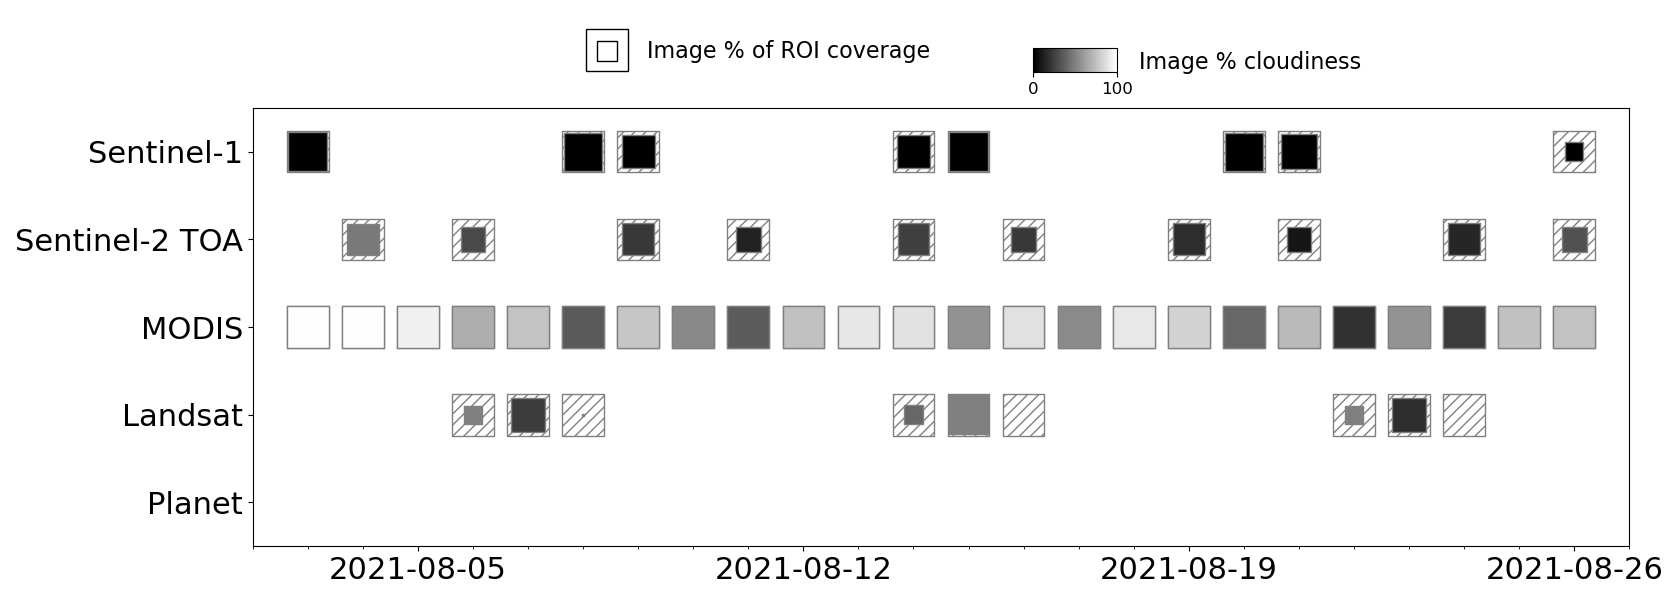
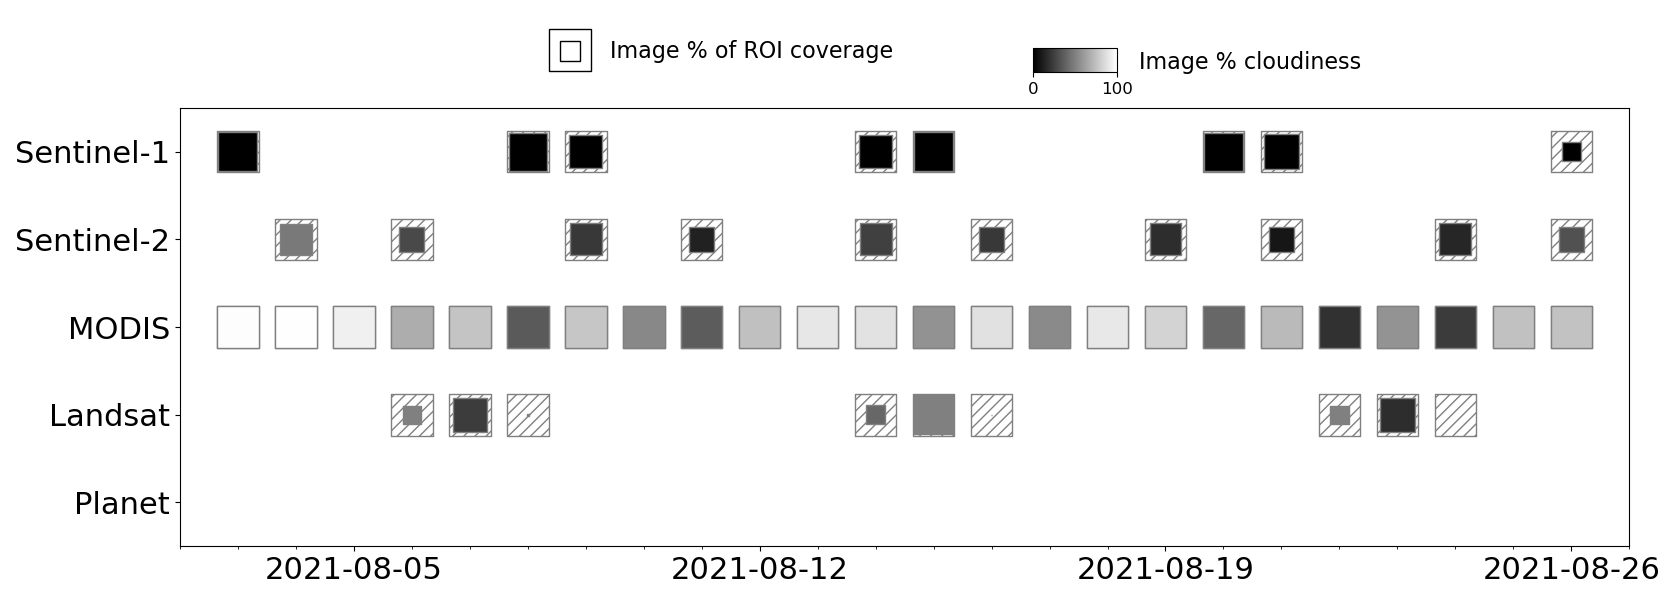
Fixed TOA flag for label

diff --git a/.ipynb_checkpoints/ImageAvailabilityInfos-checkpoint.py b/.ipynb_checkpoints/ImageAvailabilityInfos-checkpoint.py
@@ -6,7 +6,7 @@ import PlanetDataInfo
 import importlib
 importlib.reload(PlanetDataInfo)
 
-def GetDataFrames(startDate, endDate, geometry, planetAPIKey, planetCSV=None):
+def GetDataFrames(startDate, endDate, geometry, planetAPIKey, planetCSV=None, includeS2TOA=False):
     start_date = ee.Date(startDate)
     end_date = ee.Date(endDate)
 
@@ -17,9 +17,12 @@ def GetDataFrames(startDate, endDate, geometry, planetAPIKey, planetCSV=None):
     landsat9 = ee.ImageCollection("LANDSAT/LC09/C02/T1")
     # sentinel2 = ee.ImageCollection("COPERNICUS/S2_SR_HARMONIZED")
     sentinel2 = ee.ImageCollection("COPERNICUS/S2_SR")
+    sentinel2L1 = ee.ImageCollection("COPERNICUS/S2")
+    # sentinel2L1 = ee.ImageCollection("COPERNICUS/S2_HARMONIZED")
     sentinel1 = ee.ImageCollection("COPERNICUS/S1_GRD")
 
     sentinel2_collection = get_imagery_availability(sentinel2, 'S2', start_date, end_date, geometry, 'sentinel2', 20)
+    sentinel2L1_collection = get_imagery_availability(sentinel2L1, 'S2 TOA', start_date, end_date, geometry, 'sentinel2_TOA', 20)
     sentinel1_collection = get_imagery_availability(sentinel1, 'S1', start_date, end_date, geometry, None, None)
     # modis_aqua_collection = get_imagery_availability(modis_aqua, 'MODIS', start_date, end_date, geometry, 'modis', 1000)
     modis_terra_collection = get_imagery_availability(modis_terra, 'MODIS', start_date, end_date, geometry, 'modis', 1000)
@@ -32,6 +35,15 @@ def GetDataFrames(startDate, endDate, geometry, planetAPIKey, planetCSV=None):
     date_list_df['date'] = date_list_df['date'].dt.date
 
     sentinel2_df = create_imagery_info_df(sentinel2_collection)
+    # If no S2 surface reflectance data, use top of atmosphere S2 data (if available)
+    s2TOAFlag=False
+    if includeS2TOA==True and len(sentinel2_df)<1:
+        sentinel2_df = create_imagery_info_df(sentinel2L1_collection)
+        if len(sentinel2_df)>=1:
+            s2TOAFlag=True
+        else:
+            sentinel2_df = create_imagery_info_df(sentinel2_collection)
+            s2TOAFlag=False
     sentinel1_df = create_imagery_info_df(sentinel1_collection)
     # modis_aqua_df = create_imagery_info_df(modis_aqua_collection)
     modis_terra_df = create_imagery_info_df(modis_terra_collection)
@@ -49,7 +61,7 @@ def GetDataFrames(startDate, endDate, geometry, planetAPIKey, planetCSV=None):
         PlanetInfoDF = pd.read_csv(planetCSV)
         PlanetInfoDF = PlanetInfoDF.set_index('date')
         
-    return date_list_df, sentinel2_df, sentinel1_df, modis_terra_df, landsat7_df, landsat8_df, landsat9_df, PlanetInfoDF
+    return date_list_df, sentinel2_df, sentinel1_df, modis_terra_df, landsat7_df, landsat8_df, landsat9_df, PlanetInfoDF, s2TOAFlag
 
 
 

diff --git a/.ipynb_checkpoints/ImageAvailabilityVisualisation-checkpoint.py b/.ipynb_checkpoints/ImageAvailabilityVisualisation-checkpoint.py
@@ -50,7 +50,7 @@ def showImageAvailability(startDate, endDate, geometry, planetAPIKey, planetCSV=
 
     # Create a second plot where the sat image availability is grouped by sat / sensor type
     # Define names for plotting
-    if includeS2TOA==True:
+    if s2TOAFlag==True:
         names = ['Sentinel-1', 'Sentinel-2 TOA', 'MODIS', 'Landsat', 'Planet']
     else:
         names = ['Sentinel-1', 'Sentinel-2', 'MODIS', 'Landsat', 'Planet']

diff --git a/ImageAvailabilityInfos.py b/ImageAvailabilityInfos.py
@@ -43,6 +43,7 @@ def GetDataFrames(startDate, endDate, geometry, planetAPIKey, planetCSV=None, in
             s2TOAFlag=True
         else:
             sentinel2_df = create_imagery_info_df(sentinel2_collection)
+            s2TOAFlag=False
     sentinel1_df = create_imagery_info_df(sentinel1_collection)
     # modis_aqua_df = create_imagery_info_df(modis_aqua_collection)
     modis_terra_df = create_imagery_info_df(modis_terra_collection)

diff --git a/ImageAvailabilityVisualisation.py b/ImageAvailabilityVisualisation.py
@@ -50,7 +50,7 @@ def showImageAvailability(startDate, endDate, geometry, planetAPIKey, planetCSV=
 
     # Create a second plot where the sat image availability is grouped by sat / sensor type
     # Define names for plotting
-    if includeS2TOA==True:
+    if s2TOAFlag==True:
         names = ['Sentinel-1', 'Sentinel-2 TOA', 'MODIS', 'Landsat', 'Planet']
     else:
         names = ['Sentinel-1', 'Sentinel-2', 'MODIS', 'Landsat', 'Planet']
